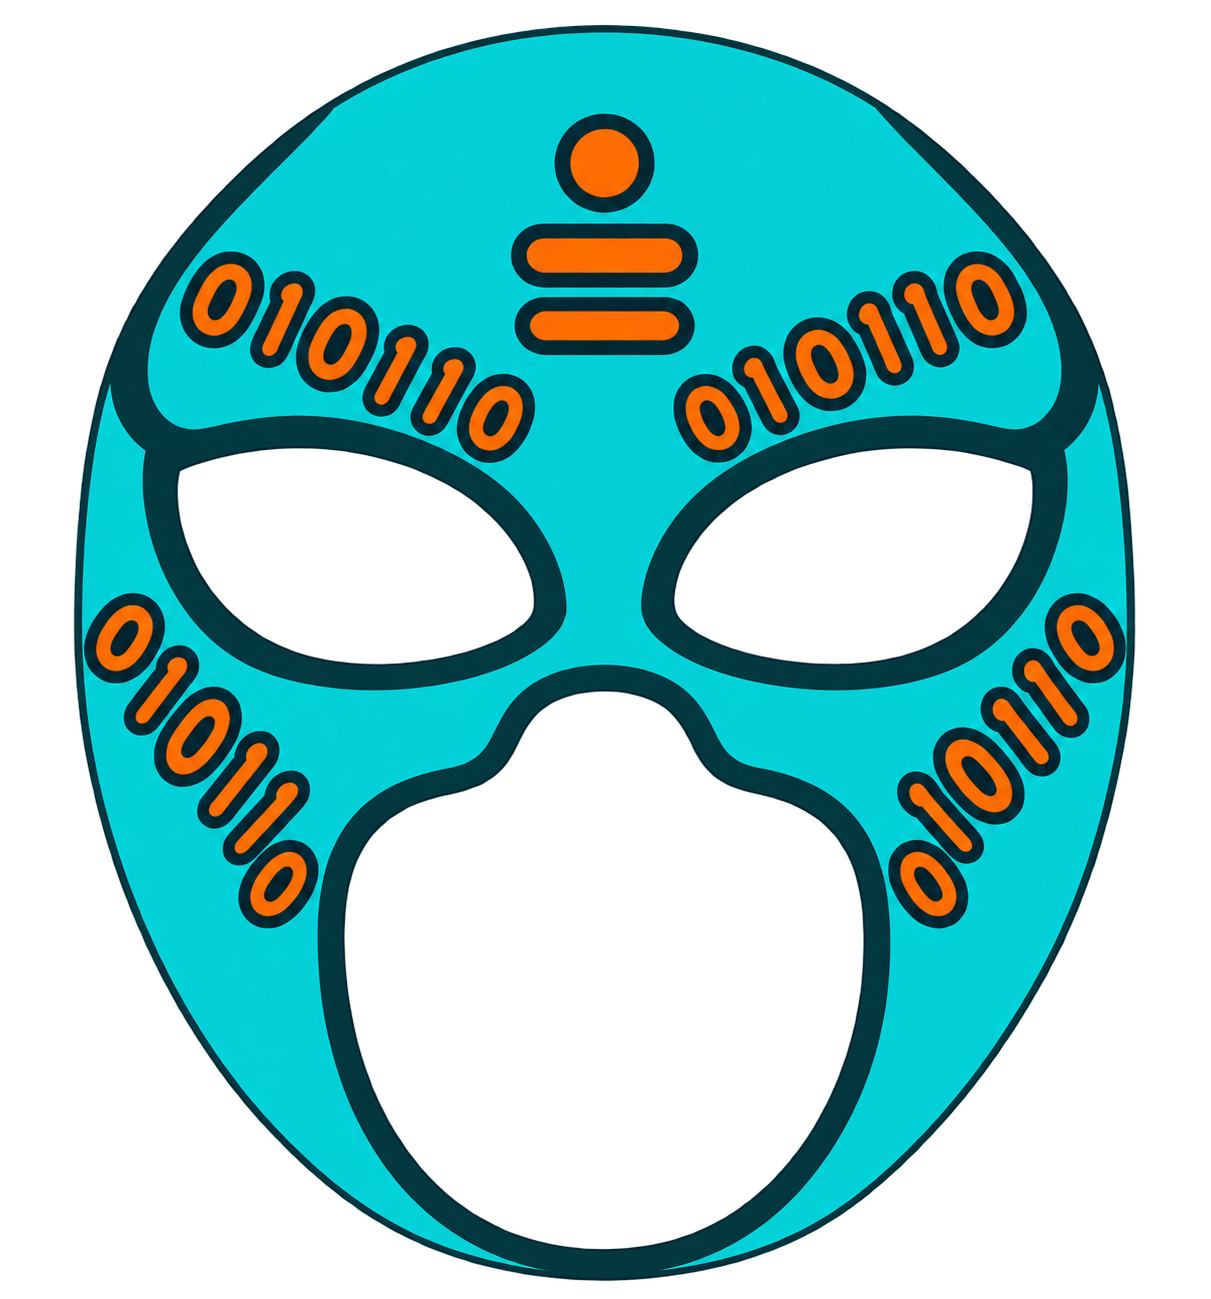
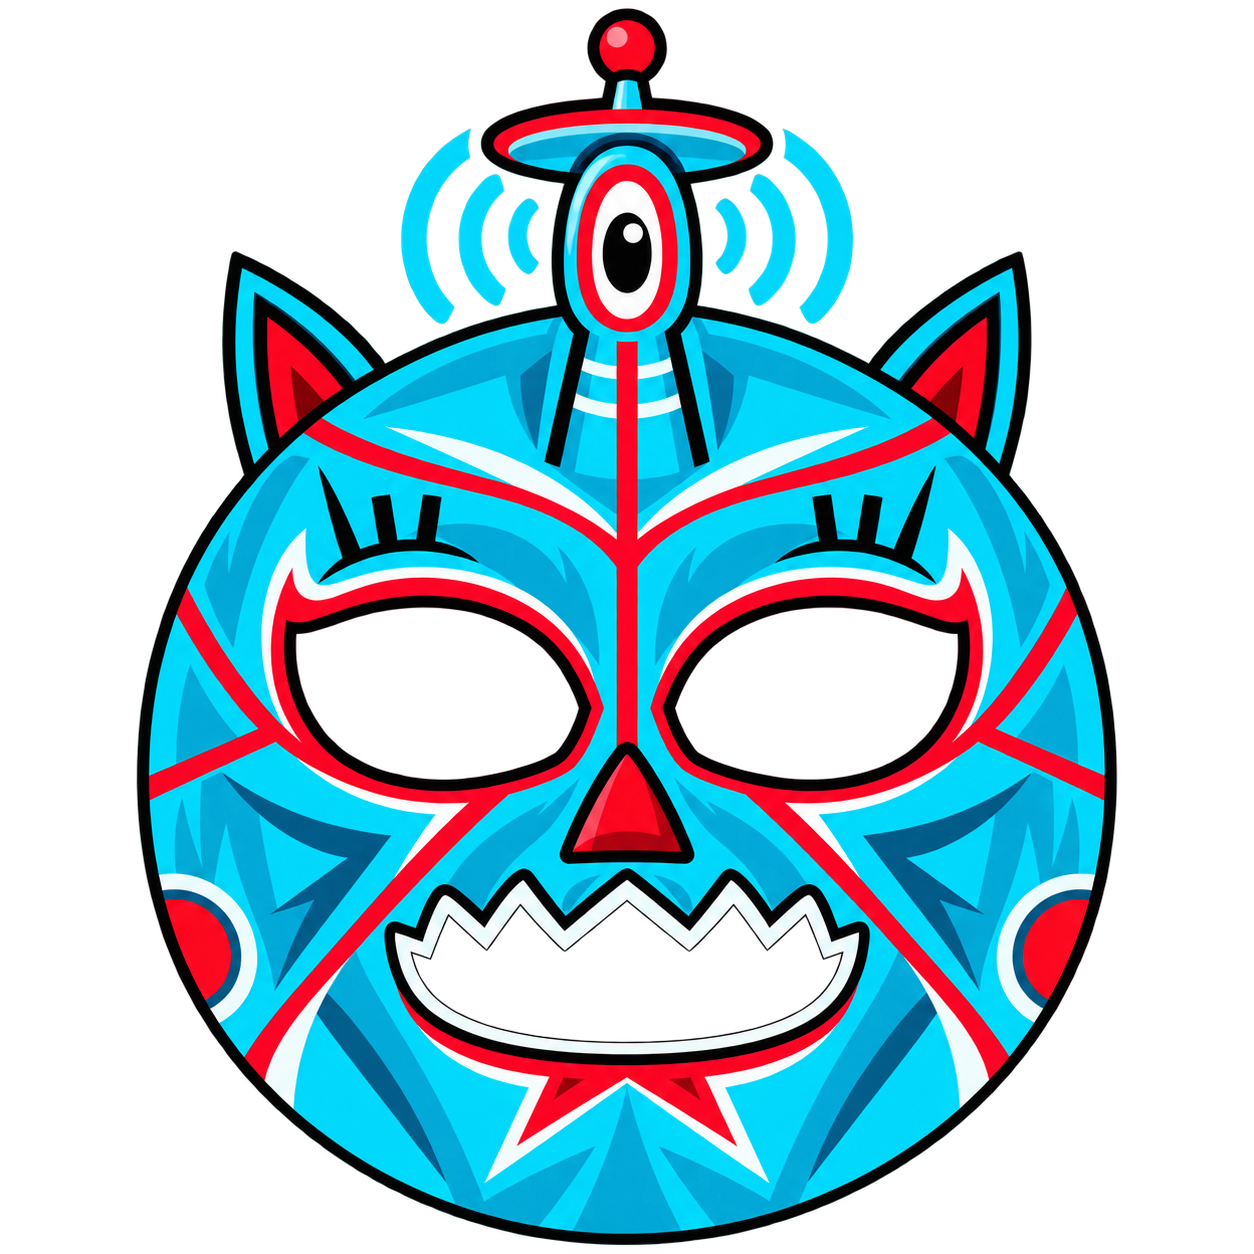
feat: replace mask with artwork based on son's drawing

diff --git a/LuchadorCam/MaskGeometry.swift b/LuchadorCam/MaskGeometry.swift
@@ -3,8 +3,8 @@ import Foundation
 // PNG anchors use normalized coordinates measured from the image's top-left.
 // Names correspond to the Vision landmarks verified in Step 3.
 enum MaskGeometry {
-    static let leftEyeAnchor = CGPoint(x: 0.290, y: 0.428)
-    static let rightEyeAnchor = CGPoint(x: 0.708, y: 0.428)
+    static let leftEyeAnchor = CGPoint(x: 0.350, y: 0.554)
+    static let rightEyeAnchor = CGPoint(x: 0.650, y: 0.554)
 
     static func transform(imageSize: CGSize, leftEye: CGPoint, rightEye: CGPoint) -> CGAffineTransform? {
         guard imageSize.width > 0, imageSize.height > 0 else { return nil }

diff --git a/Tests/MaskGeometryTests.swift b/Tests/MaskGeometryTests.swift
@@ -2,7 +2,7 @@ import XCTest
 
 final class MaskGeometryTests: XCTestCase {
     func testBothAnchorsLandOnEyesAfterTranslationScaleAndRotation() throws {
-        let size = CGSize(width: 800, height: 600)
+        let size = CGSize(width: 1254, height: 1254)
         for eyes in [
             (CGPoint(x: 120, y: 180), CGPoint(x: 320, y: 180)),
             (CGPoint(x: 50, y: 300), CGPoint(x: 200, y: 180)),

diff --git a/README.md b/README.md
@@ -61,13 +61,13 @@ Xcodeコンソール、または終了後に以下で起動してログを確認
 
 ## マスク画像と調整
 
-`assets/mask.png`は、このプロジェクト用に使用者がChatGPTで新たに生成した
-青緑・オレンジのサンプル画像。画像は1211×1299の透過PNG。
+`assets/mask.png`は、使用者の息子が描いた絵をもとにした
+水色・赤のマスク画像。画像は1254×1254の透過PNGで、背景・目穴・口が透過している。
 
 `LuchadorCam/MaskGeometry.swift`に画像の左上原点の正規化アンカーをまとめている。
 
-- `leftEyeAnchor = (0.290, 0.428)`、約(351, 556)ピクセル
-- `rightEyeAnchor = (0.708, 0.428)`、約(857, 556)ピクセル
+- `leftEyeAnchor = (0.350, 0.554)`、約(439, 695)ピクセル
+- `rightEyeAnchor = (0.650, 0.554)`、約(815, 695)ピクセル
 
 PNGの目穴の中心を目安にした値。画像内の目の中心が(x, y)、寸法が(W, H)なら
 アンカーを(x / W, y / H)にする。透明余白も寸法に含む。
@@ -133,5 +133,5 @@ CIはカメラやVisionの実機検証を代替しない。以下を使用する
 ## ライセンス
 
 コードとドキュメントは[MIT License](LICENSE)。
-`assets/mask.png`はAI生成のサンプル画像で、このコード向けMIT Licenseの対象外。
+`assets/mask.png`は息子の絵をもとにしたマスク画像で、このコード向けMIT Licenseの対象外。
 画像の別途の再利用ライセンスは設定していない。
